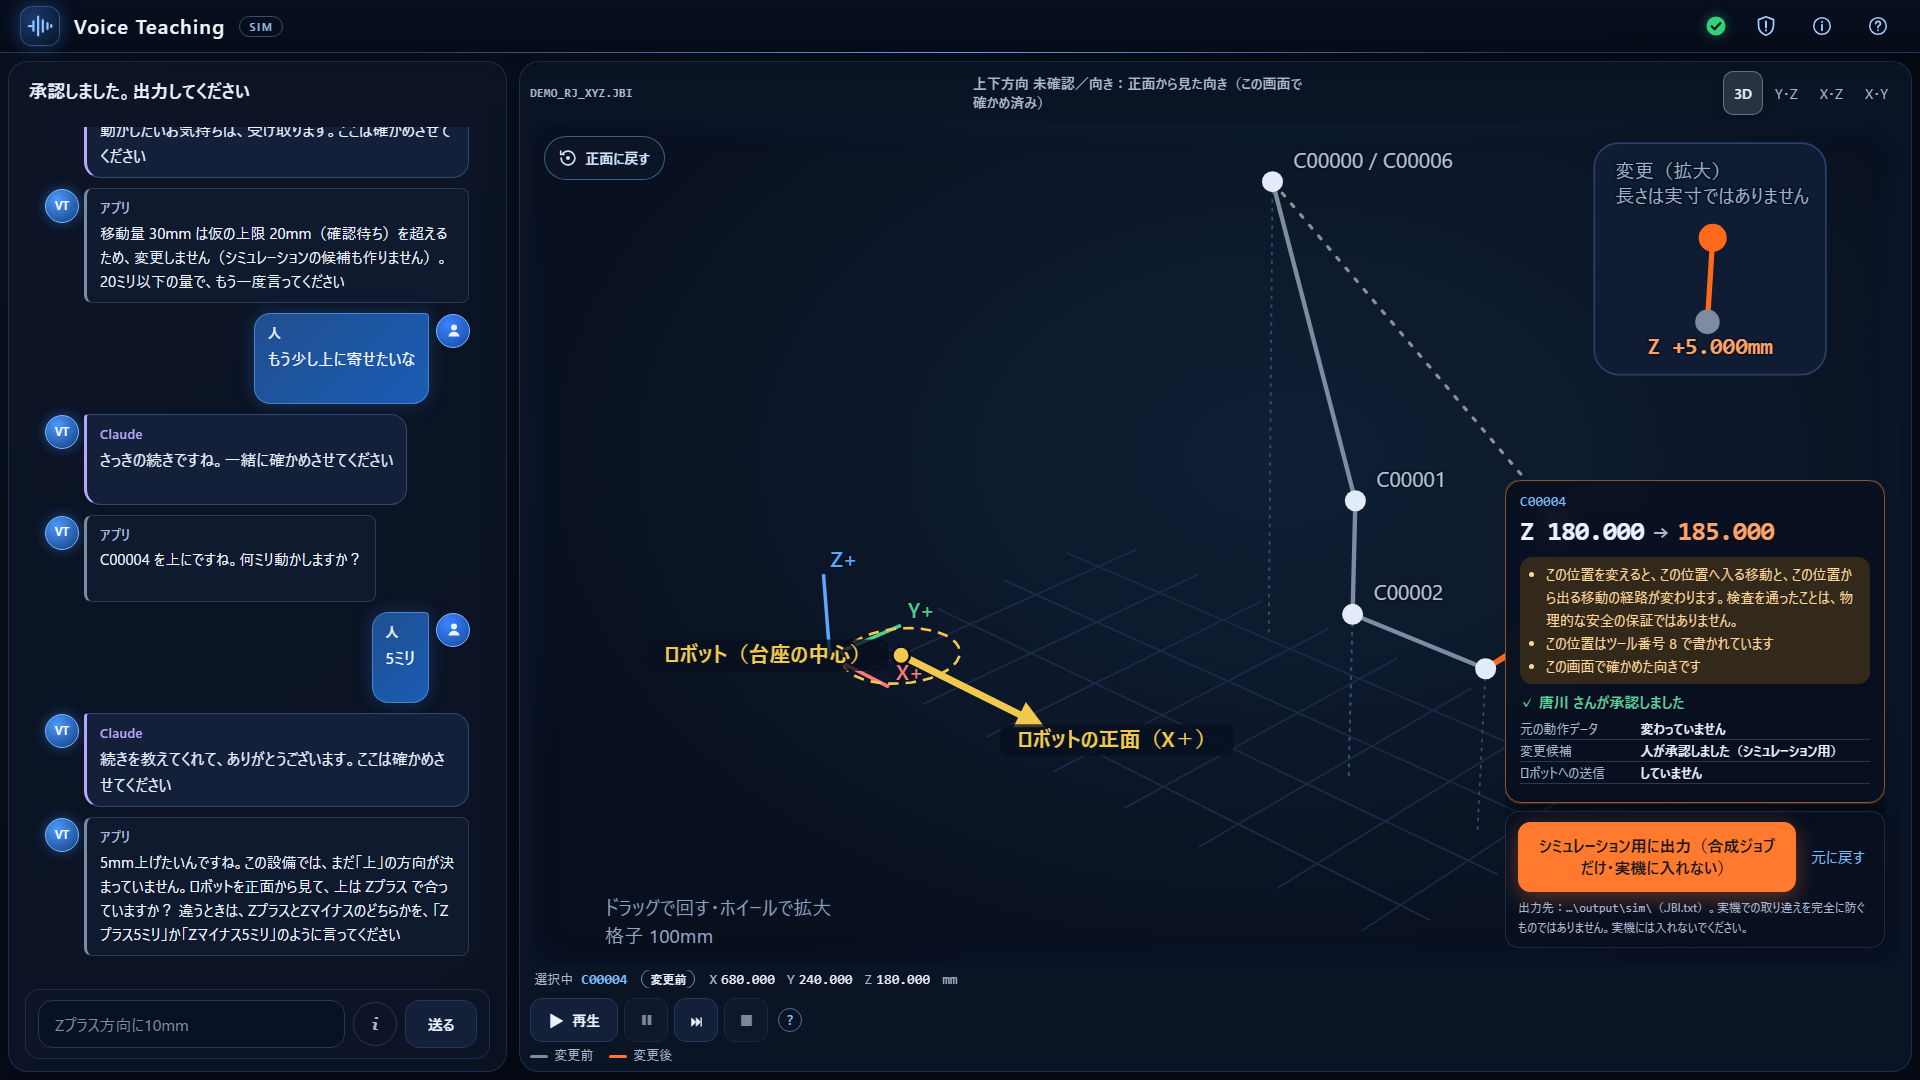
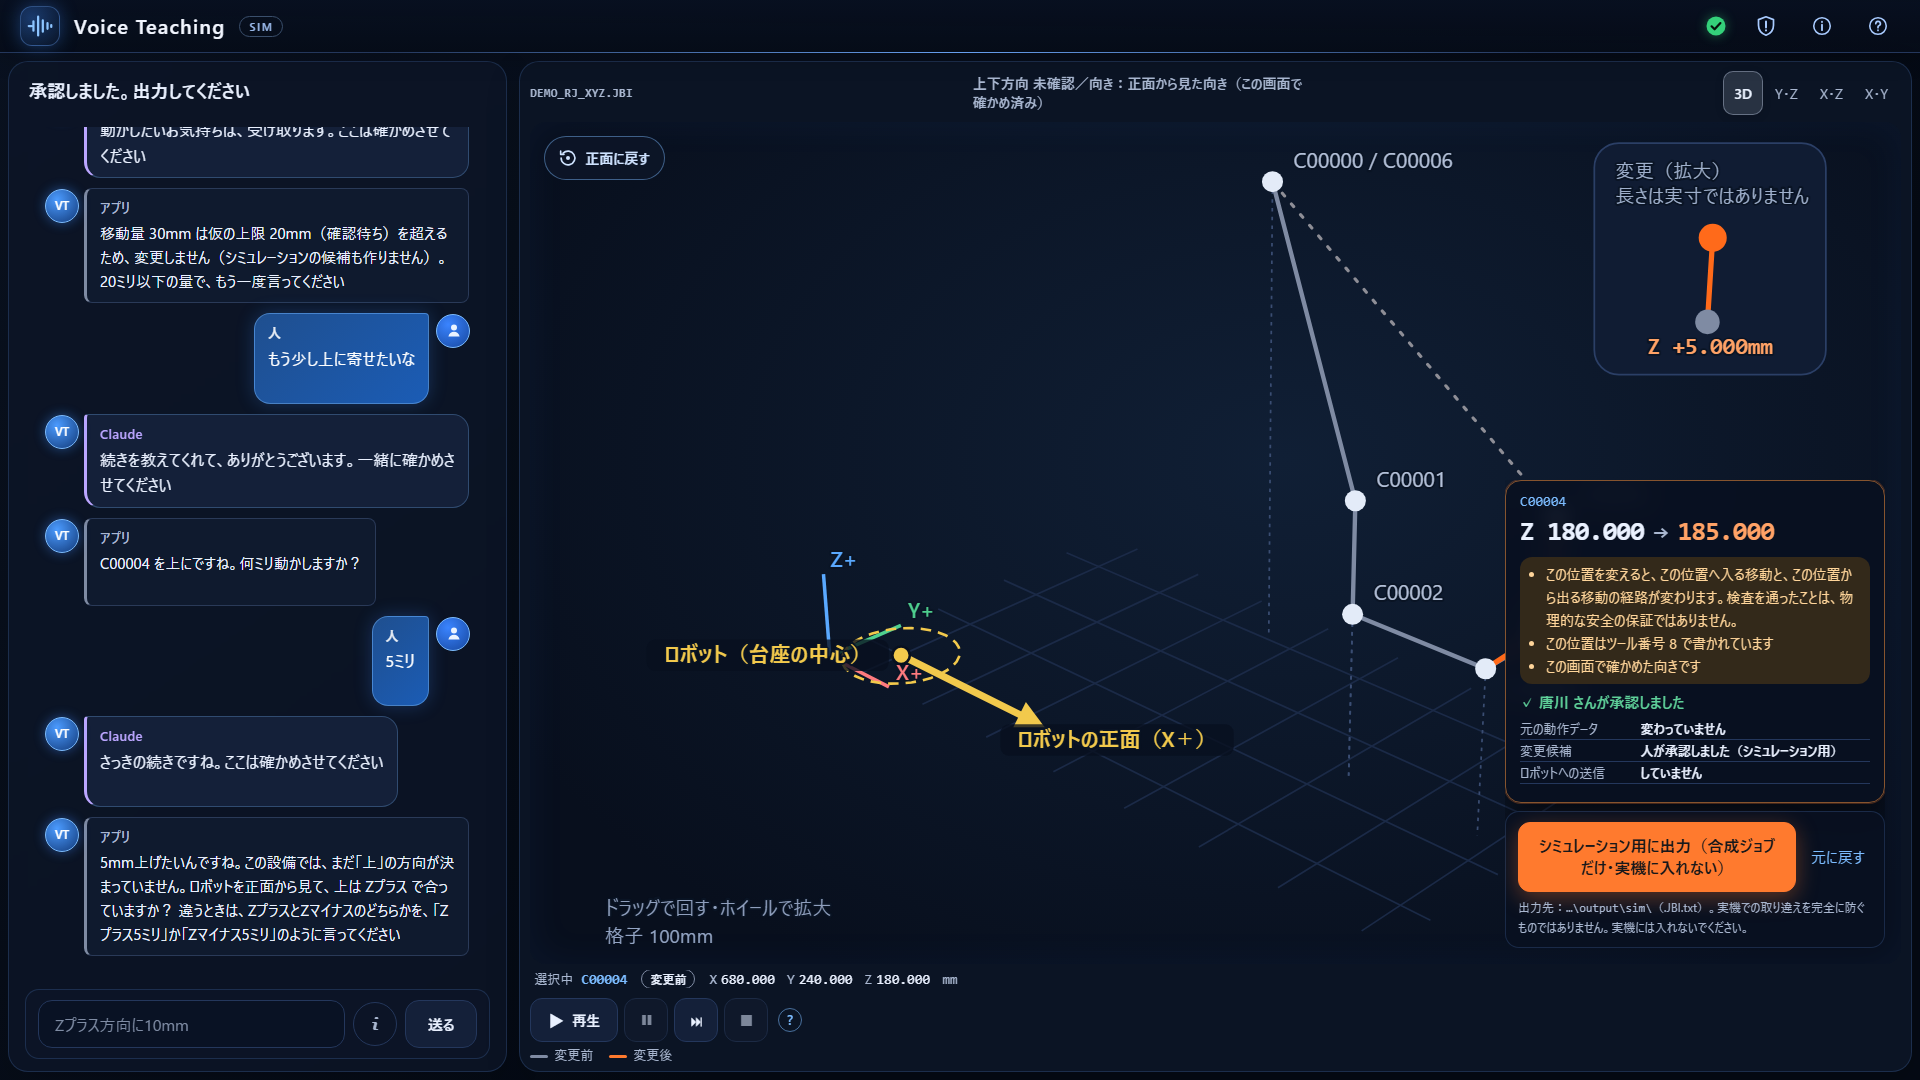
12時の中間報告（シクロ）：本番候補の内容・テスト・残件・起動・推奨の操作。画面を 34e8b21 で撮り直した（位置と回数の流れ・本物の Claude）

Changed region(s): [[0.0312, 0.3972, 0.25, 0.55], [0.0312, 0.6417, 0.2188, 0.7333], [0.1875, 0.55, 0.25, 0.6111]]

diff --git a/handoff/REPORT_V1_RC_NOON_20261107.md b/handoff/REPORT_V1_RC_NOON_20261107.md
@@ -1,46 +1,114 @@
 # 12:00 中間報告：シクロ（自然言語・Claude API／本番候補の統合）— 2026-11-07
 
 計画書 `docs/FINAL_SPRINT_PLAN_20261107.md`（main aff31dfd）の 5章の形。**事実と提案を分けて書く。**
+**独立した安全レビュー（クロ）は未完了。この報告の「通った」は内部のテストで、安全の認証ではない。**
 
-## 1. 担当・本日完了した内容（事実）
-- **API の料金の管理の抜けを直した**：前は説明の係（explain）と一言（lead）だけを記録・上限で数え、**解釈の係（decide・locate）と意味理解（understand）は数えていなかった**。今は全部の呼び出しを `records/api_usage.jsonl`（kind つき）に記録し、上限 `VOICE_TEACHING_API_BUDGET_USD`（既定 5ドル）を超えそうなら呼ばない（`claude_explain.ApiMeter`）。上限の文は「接続の問題」と分けて出す
-- **クロークの照合（XC-）の直し**：XC-02（否定で未承認の候補が承認できる）・XC-08（承認のあとの否定で承認の記録が残る）・XC-03（「どうしよう」で承認が残る）・XC-07（「大丈夫？」に答えない）・XC-04（R10 の行き止まり）・XC-05（［違う］のあとの文が分かりにくい）。XC-01（位置を変えても右左の確かめが残る）は昨夜の 0c11a96 で直っていた（テストを足した）
-- **聞き返しの途中でやめた・否定したとき**：持っていた方向・量を次の文に当てない（会話の枠を捨てる）
-- **聞き返しの見出し**：読めない言葉が無いときは「もう少し教えてください」（返事の欄と同じ。前は「もう一度、言い直してください」）
-- **自然言語の評価を 50件 → 102件**に（クロークの照合 6-4 の足りない分類：聞き違い・否定と指示・方言・単位の組み合わせと境目・位置の言葉・会話の続き・出力のあとの続き・相づちで承認を残す・関係ない話・空と長い文）
-- **README を v1.0 に書き直した**（しくみ・起動・できないこと・上限・料金・テスト）。`.env.example` にモデルと上限の説明
+## 1. 本日完了した内容（事実）
+### 自然言語（Claude の意味理解・Python の独立の確かめ）
+- **Python の確かめを強くした**（クロークの早めの知らせ XC-16・XC-17）
+  - 量は、Python が**発話の全体**から読んだ量（ちょうど1つ・数の前が数字や小数点でない）とも同じときだけ使う。「0.5ミリ」の中の「5ミリ」を根拠にした答えは通さない
+  - 発話の全体に**量・方向が2つ以上**あれば、Claude の答えに関わらず聞き返す（矛盾する複数値を選ばない）。同じ向きを2通りで言ったもの（「Zを3ミリ下げて」）は1つ。「下さい」「上限」は方向に数えない
+- **古い候補の再利用を止めた**（XC-14）：意味理解に「直前の候補」を渡さない（元に戻した・取り消した候補だったため）。「あと3ミリ」「さっきと同じだけ」は聞き返す
+- **聞き返しの途中でやめた・否定した**ら、持っていた方向・量を捨てる
+- ていねいな「すみません、」を打ち消しに数えない（XC-18）。「〜に訂正して」「〜に修正して」を言い直しの印に（XC-19）
+- 音声認識の「2階から3階にして」を、繰り返しのある JOB では「回」と読む（範囲はボタンで確かめる）
+- 聞き返しの見出し：読めない言葉が無いときは「もう少し教えてください」
+
+### 候補・承認の安全（クロークの照合 XC-）
+- XC-02：候補があるときの「だめ」「ノー」「出さないで」「きゃんせる」「あかん」など → 保留（承認できない）
+- XC-08：承認のあとの否定（「いいえ」「それじゃない」「いや」も）→ 保留＋承認の取り消し
+- XC-03：承認のあとの「どうしよう」「どうかな」「どうだろう」→ 保留
+- XC-07：「大丈夫？」「合ってる？」には今の候補の中身で答え、決めるのはボタンと伝える（保留のまま）
+- XC-04（R10）：「もう少し右に寄せて」→「5ミリ」→［合っている］の行き止まりを直した
+- XC-05：［違う］のあとは同じ確かめを繰り返さない（11/5 の決定）。右・左を言ったら理由と次にすることの文
+- XC-01：位置を変えたら右・左を確かめ直す（昨夜の 0c11a96。テストを足した）
+
+### API の使用量の管理
+- **前は、説明の係と一言だけを記録・上限で数え、解釈の係（decide・locate）と意味理解（understand）を数えていなかった。** 今は全部の呼び出しを `records/api_usage.jsonl`（kind つき）に記録し、上限 `VOICE_TEACHING_API_BUDGET_USD`（既定 5ドル）を超えそうなら呼ばない。上限の文は「接続の問題」と分けて出す
+- 評価の道具にも上限（既定 2ドル）と記録
+- 今日の実 API の費用（記録の値）：評価 2回＋回数の確かめ ＝ **約 0.89 ドル**
+
+### 文書
+- README を v1.0 に書き直した（しくみ・起動・できないこと・上限・料金・テスト）。`.env.example` にモデルと上限
 
 ## 2. ブランチ・SHA・報告書
 | | |
 |---|---|
-| 本番候補 | `release/v1.0-rc` **（SHA は 7章）** |
-| 撮影版（復旧の基準・変えていない） | タグ `filming-60f3d24` |
-| 報告書 | この文書・`handoff/REPORT_V1_RC_20261107.md`（昨夜） |
+| 本番候補 | `release/v1.0-rc`（SHA は 7章） |
+| 撮影版（復旧の基準・変えていない） | タグ `filming-60f3d24`（8896 も変えていない） |
+| 報告書 | この文書、`handoff/REPORT_V1_RC_20261107.md`（昨夜） |
 
-## 3. 実施したテスト（モック／実 Claude／UI／e2e を分ける）
-（7章の最終の行に結果を書く）
+## 3. 実施したテスト
+| 種類 | 結果 |
+|---|---|
+| pytest（偽の Claude） | 7章 |
+| Node | 7章 |
+| e2e（モック・ブラウザー） | 7章 |
+| **自然言語の評価 105件・本物の Claude**（claude-sonnet-5-5） | **105/105・誤った候補 0・API の失敗 0**（0.41 ドル）。`docs/v1.0-rc/nl-eval-v2/live/` |
+| 自然言語の評価 105件・モック（今までの読み方だけ） | 84/105・誤った候補 0。`docs/v1.0-rc/nl-eval-v2/mock/` |
+| 回数の言い方・本物の Claude（7通り） | 「2回から3回にして」「3回に増やして」「にかいからさんかい」「もう1回増やして」「2階から3階にして」→ 範囲の確かめ 2→3／「4回にして」「1回減らして」→ 理由つきで断る |
+| 画面の流れ・本物の Claude（1920×1080） | 30mm を断る → あいまいな量を聞き返す → 5ミリ → 上の向きをボタンで確かめる → 候補 → 確認表示 → ボタンで承認 → SIM 出力 → 2→3回（範囲のボタン → 承認 → 出力）→「4回にして」を断る。ページのエラー 0。画面に版・SHA なし |
+| SIM の中身 | 位置：`//NAME` と C00004 の Z（180→185）の2行だけ。回数：`//NAME` と 1回分の3行（MOVL C00001〜C00003）だけ。元の JOB は変わらない |
+| 3つの大きさ | 1920×1080・1440×900・1280×720：［確認して承認へ］と 3D が画面の中、横のはみ出しなし（`docs/v1.0-rc/screens/16_*`） |
 
-## 4. 発見したバグ・残件・重大度
+## 4. 残件・重大度
 | ID | 重大度 | 中身 | 状態 |
 |---|---|---|---|
-| XC-06 | P3 | 「右」を確かめると「左」も確かめずに使う | **既知制限**（右左の対応は1つの表なので、片方の確かめで反対も決まる。変えるなら唐川さんの判断） |
-| R-5 | — | 読み直しと出力の重なりの2段階の書き込み | 未実装（前のまま） |
-| N-3・N-4 | — | 怪しい値の JOB／SIM を読み直して重ねる | 唐川さんの判断待ち（前のまま） |
-| N-6 | P3 | 空の文で［送る］が押せる（何も起きない）・1280×720 で候補の窓が会話に重なる | クーちゃん・コックの担当（シクロは触っていない） |
-| 料金の同時の呼び出し | P3 | 上限の確かめと記録の間に別の呼び出しがあると、上限を1回分だけ超えることがある | 既知制限（1回の最大の見積もりを足して確かめるので、超えても1回分） |
+| N-6 | P3 | 1280×720 で候補の窓が会話に重なる・空の文の［送る］ | **クーちゃん・コックの担当**（シクロは触っていない） |
+| XC-06 | P3 | 「右」を確かめると「左」も使える | 既知制限（右左の対応は1つの表。変えるなら唐川さんの判断） |
+| — | P3 | 「さんがい」（「3階」の読み）・「Z+3」（単位なし）は聞き返す | 既知制限（安全側） |
+| — | P3 | 料金：同時の2つの呼び出しで、上限を1回分だけ超えることがある | 既知制限（1回の最大の見積もりで確かめる） |
+| — | 情報 | 意味理解は本物の Claude のときだけ。モック・Claude につながらないときは、はっきりした指示だけ通る | 仕様 |
+| R-5・N-3・N-4 | — | 前のまま | 唐川さんの判断待ち |
+| 版の番号 | — | `1.00-dev` のまま（release で起動するには `1.00`） | 唐川さんの判断 |
 
 ## 5. 本番 RC への取り込み
 | もの | 状態 |
 |---|---|
-| クロークの Spec A・Option 1・K1・K2〜K7・言い直しのボタン（11件） | **取り込み済み**（昨夜）。**クロの独立レビューは未** |
+| クロークの Spec A・Option 1・K1・K2〜K7・言い直しのボタン（11件） | 取り込み済み（昨夜）。**クロの独立レビューは未** |
 | コックの UI 改善（acb4145 の CSS） | 取り込み済み（昨夜） |
-| クーちゃんの UI | 未（まだ届いていない） |
+| クロークの照合・早めの知らせの直し（XC-01〜08・14・16〜19） | 取り込み済み（シクロが直した。**クロークの再テストは未**） |
+| クーちゃんの UI | 未（届いていない） |
 
-## 6. 午後に要ること・リスク・依頼
-- **クロ**：安全に関わる変更の独立レビュー（Spec A ほか 11件、意味理解、XC の直し、N-1、料金の上限）
-- **クローク**：この SHA で XC- の再テスト（とくに XC-02・XC-08・XC-03・R10）
-- **唐川さん**：XC-06 の扱い、版の番号（`1.00-dev` のまま）、N-1 の名前の付け方（`_02`〜）
-- リスク：意味理解は本物の Claude のときだけ働く（モックは今までの読み方）。Claude につながらないときは、はっきりした指示（「C00004 を Zプラス 5ミリ」）だけ使える
+## 6. 午後に要ること・依頼
+- **クロ**：安全に関わる変更の独立レビュー（Spec A ほか 11件、意味理解と Python の確かめ、XC の直し、N-1、料金の上限）
+- **クローク**：この SHA で XC- の再テスト（とくに XC-02・08・14・16・17）
+- **クーちゃん**：1280×720 の候補の窓と会話の重なり（N-6）。触るファイルが同じなら、先に知らせてほしい（シクロは app.js・flow.py を触っている）
+- **唐川さん**：12時の実操作、XC-06 の扱い、版の番号、動画に使う SHA
 
-## 7. 起動・URL・SHA・推奨の操作（シクロの必須の項目）
-（下の最終の行に書く）
+## 7. 起動・URL・SHA・推奨の操作（必須の項目）
+### 7-1. 対象の SHA とテスト（すべて同じコード 34e8b21 で実行）
+| 項目 | 値 |
+|---|---|
+| 12時に見る本番候補 | `release/v1.0-rc`・タグ **`v1.0-rc-20261107-am`**（この文書のコミット。コードは 34e8b21 と同じ） |
+| pytest（偽の Claude） | **6863 passed・1 skipped・0 failed** |
+| Node | **128 / 128** |
+| e2e（モック・ブラウザー） | **OK 1494・NG 0「すべて通りました」**（朝の1回目は Playwright の Response has been disposed で途中終了。アプリの確かめの NG ではない。流し直しで通った） |
+| 撮影の安定版（午後の動画の予備） | タグ `filming-60f3d24`（8896）。本番候補が差し戻しなら、こちらで撮る |
+
+### 7-2. 起動（このPC：自宅PC）
+```powershell
+cd C:\Users\User\vt-rc            # release/v1.0-rc の作業フォルダ
+$env:PYTHONUTF8="1"; $env:PYTHONIOENCODING="utf-8"
+C:\Users\User\voice-teaching\.venv\Scripts\python.exe -m voice_teaching.web --port 8901 --channel filming --env-file C:/Users/User/voice-teaching/.env
+```
+- **URL：http://127.0.0.1:8901/**（Chrome）。今このPCで起動中
+- 起動の窓に「解釈：本物の Claude（claude-sonnet-5-5）」「意味理解（Claude）：準備ができました」が出ること
+- Claude の接続：本物（モックではない）。キーが無ければ起動しない
+- 出力：`C:\Users\User\vt-rc\output\sim\`（同じ名前は `_02`… 上書きしない）
+- 別のPCでは：`git checkout v1.0-rc-20261107-am`、README の「起動」のとおり
+
+### 7-3. テスト用の合成 JOB と推奨の操作（計画書 6章の確かめの順）
+1. `samples/dummy/DEMO_RJ_XYZ.JBI` を読み込む → 3D の点を見る → **C00004** を押す
+2. 「Zプラスに3センチ動かして」→ **20mm の上限で断る**
+3. 「もう少し上に寄せたいな」→「C00004 を上にですね。何ミリ動かしますか？」
+4. 「5ミリ」→ 上の向きの確かめ（上下は未確認）→［合っている］
+5. 変更前→変更後（Z 180.000 → 185.000）と 3D を見る →［確認して承認へ］→ 名前 →［承認する］
+6. ［シミュレーション用に出力］→ `DEMO_RJ_XYZ_SIM.JBI.txt`（もう一度は押せない）
+7. 言い直し・否定の確かめ（どれも古い候補・承認が残らないこと）：「3ミリに訂正して」「だめ」「ノー」「大丈夫？」・別の位置を選ぶ
+8. 回数：`samples/dummy/DEMO_BUTTON_REPEAT.JBI` →「2回から3回にして」→［この範囲を繰り返す］→ 承認 → 出力 →「4回にして」は断る
+9. 自然な言い方の例：「C00004をZのプラスに5ミリずらしてほしいんだけど」「Zプラス方向に0.5センチ」「ちょい右に3ミリ」（右は確かめのボタン）「すみません、Zのプラス方向に5ミリだけ動かしてもらえますか」
+
+### 7-4. 判定についてのシクロの見方（提案）
+- **条件付き採用**の材料はそろった：誤った候補 0（実 Claude 105件・モック 105件）、古い承認での出力 0、承認と SIM の中身が一致、テストは全部通る
+- ただし、**クロの独立レビューが未完了**なので、計画書 8章では GO ではなく CONDITIONAL か、レビュー待ち
